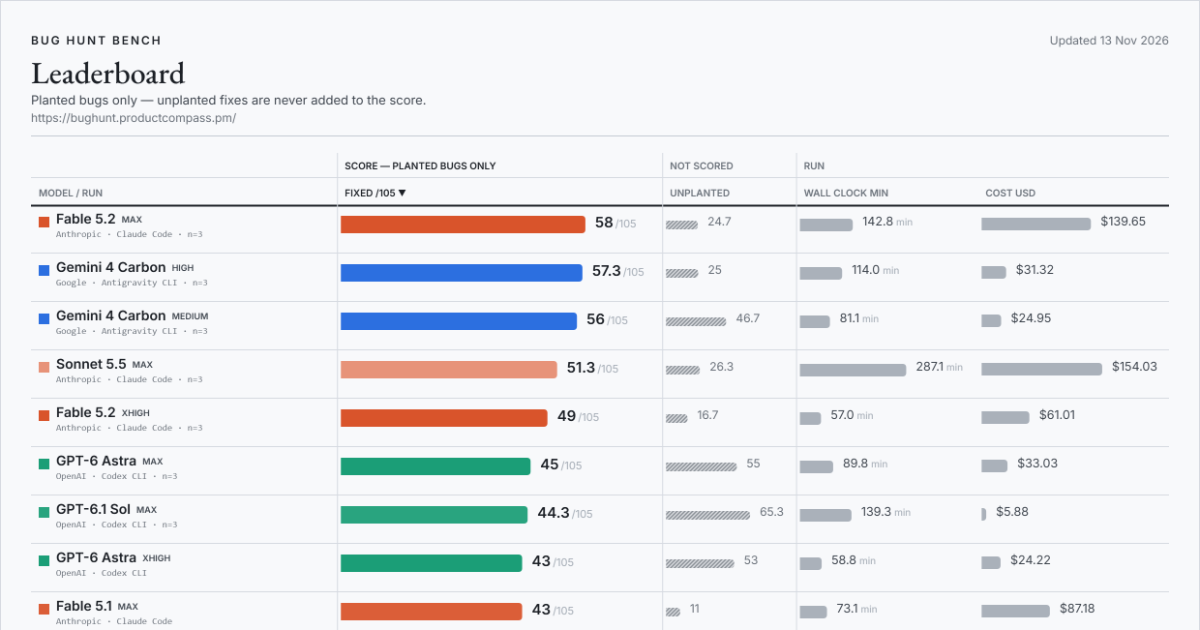
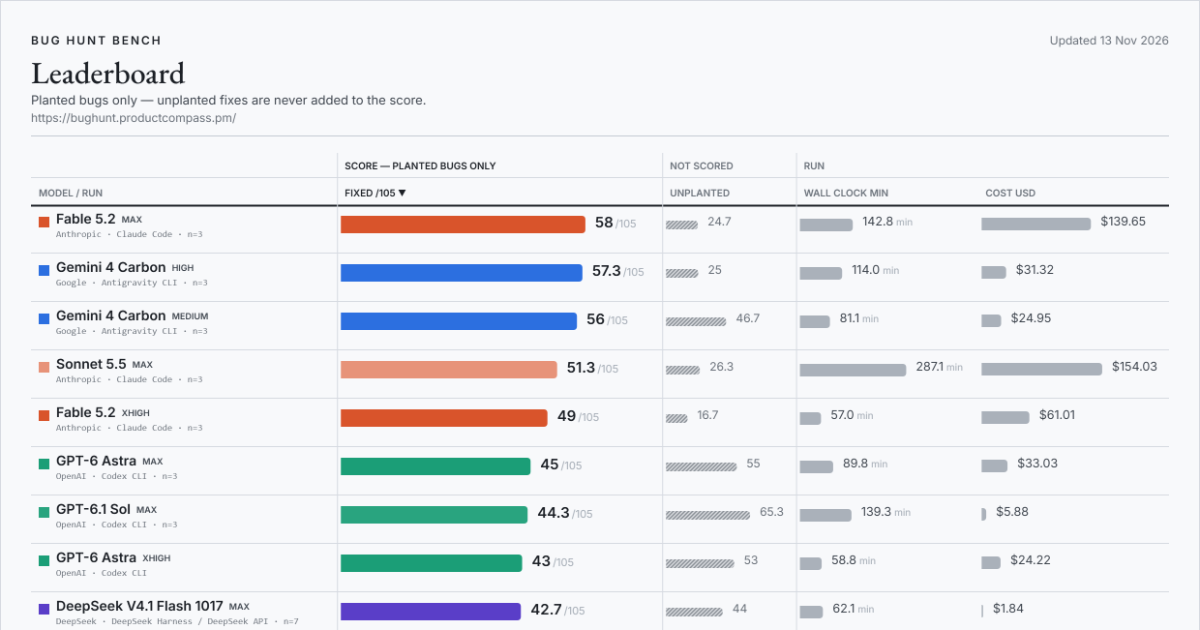
site: unfeature Fable 5.1 max, Grok 4.7 xhigh and Gemini 4 Hydrogen high

diff --git a/index.html b/index.html
@@ -22,14 +22,14 @@
 <meta property="og:title" content="Bug Hunt Bench — frontier coding models against real planted bugs">
 <meta property="og:description" content="A blind-graded benchmark of frontier coding models on real bugs planted in two production codebases. The score counts planted bugs only; extra fixes are tracked separately and never added.">
 <meta property="og:url" content="https://bughunt.productcompass.pm/">
-<meta property="og:image" content="https://bughunt.productcompass.pm/og-image.png?v=2026-11-13-ede7c68e">
+<meta property="og:image" content="https://bughunt.productcompass.pm/og-image.png?v=2026-11-13-4d7cb299">
 <meta property="og:image:width" content="1200">
 <meta property="og:image:height" content="630">
 <meta property="og:image:alt" content="Bug Hunt Bench leaderboard">
 <meta name="twitter:card" content="summary_large_image">
 <meta name="twitter:title" content="Bug Hunt Bench — frontier coding models against real planted bugs">
 <meta name="twitter:description" content="A blind-graded benchmark of frontier coding models on real bugs planted in two production codebases. The score counts planted bugs only.">
-<meta name="twitter:image" content="https://bughunt.productcompass.pm/og-image.png?v=2026-11-13-ede7c68e">
+<meta name="twitter:image" content="https://bughunt.productcompass.pm/og-image.png?v=2026-11-13-4d7cb299">
 <meta name="twitter:creator" content="@PawelHuryn">
 
 <link rel="icon" href="/assets/favicon.svg" type="image/svg+xml">

diff --git a/method.html b/method.html
@@ -20,14 +20,14 @@
 <meta property="og:title" content="Method, caveats and definitions — Bug Hunt Bench">
 <meta property="og:description" content="How Bug Hunt Bench is run and graded, what the board cannot tell you, and what every column on it means.">
 <meta property="og:url" content="https://bughunt.productcompass.pm/method">
-<meta property="og:image" content="https://bughunt.productcompass.pm/og-image.png?v=2026-11-13-ede7c68e">
+<meta property="og:image" content="https://bughunt.productcompass.pm/og-image.png?v=2026-11-13-4d7cb299">
 <meta property="og:image:width" content="1200">
 <meta property="og:image:height" content="630">
 <meta property="og:image:alt" content="Bug Hunt Bench leaderboard">
 <meta name="twitter:card" content="summary_large_image">
 <meta name="twitter:title" content="Method, caveats and definitions — Bug Hunt Bench">
 <meta name="twitter:description" content="How Bug Hunt Bench is run and graded, what the board cannot tell you, and what every column on it means.">
-<meta name="twitter:image" content="https://bughunt.productcompass.pm/og-image.png?v=2026-11-13-ede7c68e">
+<meta name="twitter:image" content="https://bughunt.productcompass.pm/og-image.png?v=2026-11-13-4d7cb299">
 <meta name="twitter:creator" content="@PawelHuryn">
 
 <link rel="icon" href="/assets/favicon.svg" type="image/svg+xml">

diff --git a/results/effort-dial-probes/README.md b/results/effort-dial-probes/README.md
@@ -103,6 +103,7 @@ loss reads exactly like a model that will not answer. The effort probe streams a
 transport failures now; HTTP errors are never retried, because an unsupported level is a finding.
 | 2026-09-29 | gpt-6.1-sol | Codex CLI 0.159.0 (`model_reasoning_effort=max`) | **ACCEPTED** - the account's own Codex model list documents low, medium, high, xhigh, max and ultra (above max: 'maximum reasoning with automatic task delegation'); the leg's session record shows effort max | gpt-6.1-sol-codex-model-list-2026-09-29.json |
 | 2026-10-26 | gpt-6.1-terra | Codex CLI 0.159.0 (`model_reasoning_effort=max`, `xhigh`, `high`) | **ACCEPTED** - the account's own Codex model list documents low, medium, high, xhigh, max and ultra (above max: 'maximum reasoning with automatic task delegation'), context window 500000; a `max` smoke call on the ChatGPT account answered | gpt-6.1-terra-codex-model-list-2026-10-26.json |
+| 2026-11-17 | gpt-6.2-astra | Codex CLI 0.166.0 (`model_reasoning_effort=max`, `xhigh`) | **ACCEPTED** - the account's own Codex model list documents low, medium, high, xhigh, max and ultra (above max), context window 272000; every bench leg's Codex session record shows the requested tier | gpt-6.2-astra-codex-model-list-2026-11-17.json |
 | 2026-11-12 | gemini-4-hydrogen | Gemini API (`generationConfig.thinkingConfig.thinkingLevel`), prepaid key; the agy arm pins it on the wire via the gateway | **xhigh is the ceiling** - low/medium/high/xhigh/max answer 200, minimal/ultra/bogus 400; thought tokens on primes-to-500, n=4: low 679-1,071, medium 2,756-6,445, high 3,900-5,300, **xhigh 13,814-16,295**, max 3,264-4,104 (accepted, thinks like the default), omitted 3,986-4,844 (= high, the documented default) | 20261112-gemini4hydrogen-thinkinglevel.txt |
 | 2026-11-13 | gemini-4-hydrogen-high / -xhigh | agy 1.5.8 on the Google AI Pro login (slug + `--effort`), CLI's own `usage.thinking_tokens`, no wire readback | **xhigh binds above high** on this path: tiling prompt, n=3: high 5,400-6,161, xhigh 7,691-12,769 (1.89x mean, no overlap) | 20261113-gemini4hydrogen-agy-login.txt |
 | 2026-11-13 | gemini-4-carbon-low/-medium/-high, gemini-4-hydrogen-low/-medium/-high | agy 1.5.8 on the Google AI Ultra sign-in (slug + `--effort`), CLI's own `usage.thinking_tokens` / `output_tokens`, no wire readback | **every tier binds** on the tiling prompt, n=3: Hydrogen thinking low 2,041-2,335 / medium 3,573-3,863 / high 4,115-5,571; Carbon medium 4,940-5,819 / high 7,021-12,647, Carbon **low reports 0 thinking** but 2,638-5,733 output vs medium's 6,318-6,686 (no overlap) | 20261113-gemini4-lowmed-agy-ultra.txt |

diff --git a/README.md b/README.md
@@ -7,7 +7,7 @@
 If the numbers save you a benchmark run of your own, **star this repo** — that is what keeps the bench findable, and new models are added as they ship.
 
 <!-- leaderboard:start -->
-![Bug Hunt Bench leaderboard, the featured runs, updated Nov 13, 2026](assets/leaderboard.png?v=2026-11-13-63ef55df)
+![Bug Hunt Bench leaderboard, the featured runs, updated Nov 13, 2026](assets/leaderboard.png?v=2026-11-13-c84a966e)
 
 **Updated Nov 13, 2026 · 220 rows from 341 scored runs · 52 models · 23 of 105 bugs have never been fixed by any model.**
 
